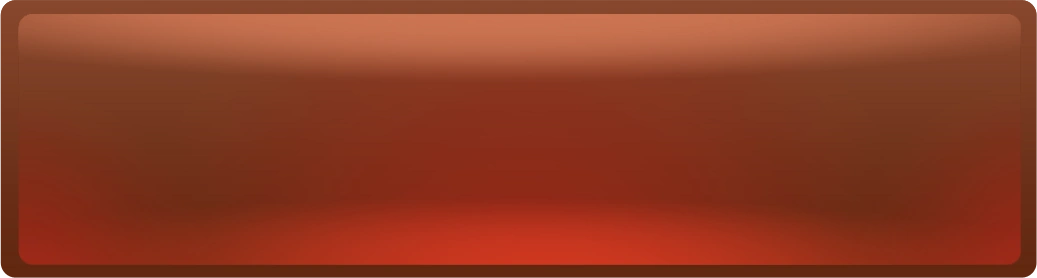
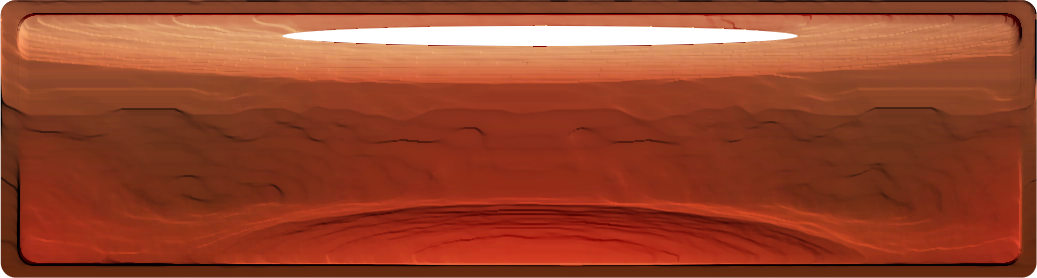
Updated some button images

diff --git a/LICENSE.md b/LICENSE.md
@@ -1,0 +1,4 @@
+This project is distributed under the CCBY3.0 license except for images and icons. Images and icons are  the property of their owners (Rexard and myself) and may 
+not be redistributed without permission and attribution.
+
+Otherwise, you are freee to fork this code and make your own projects from it. A simple attribution is requested. 
